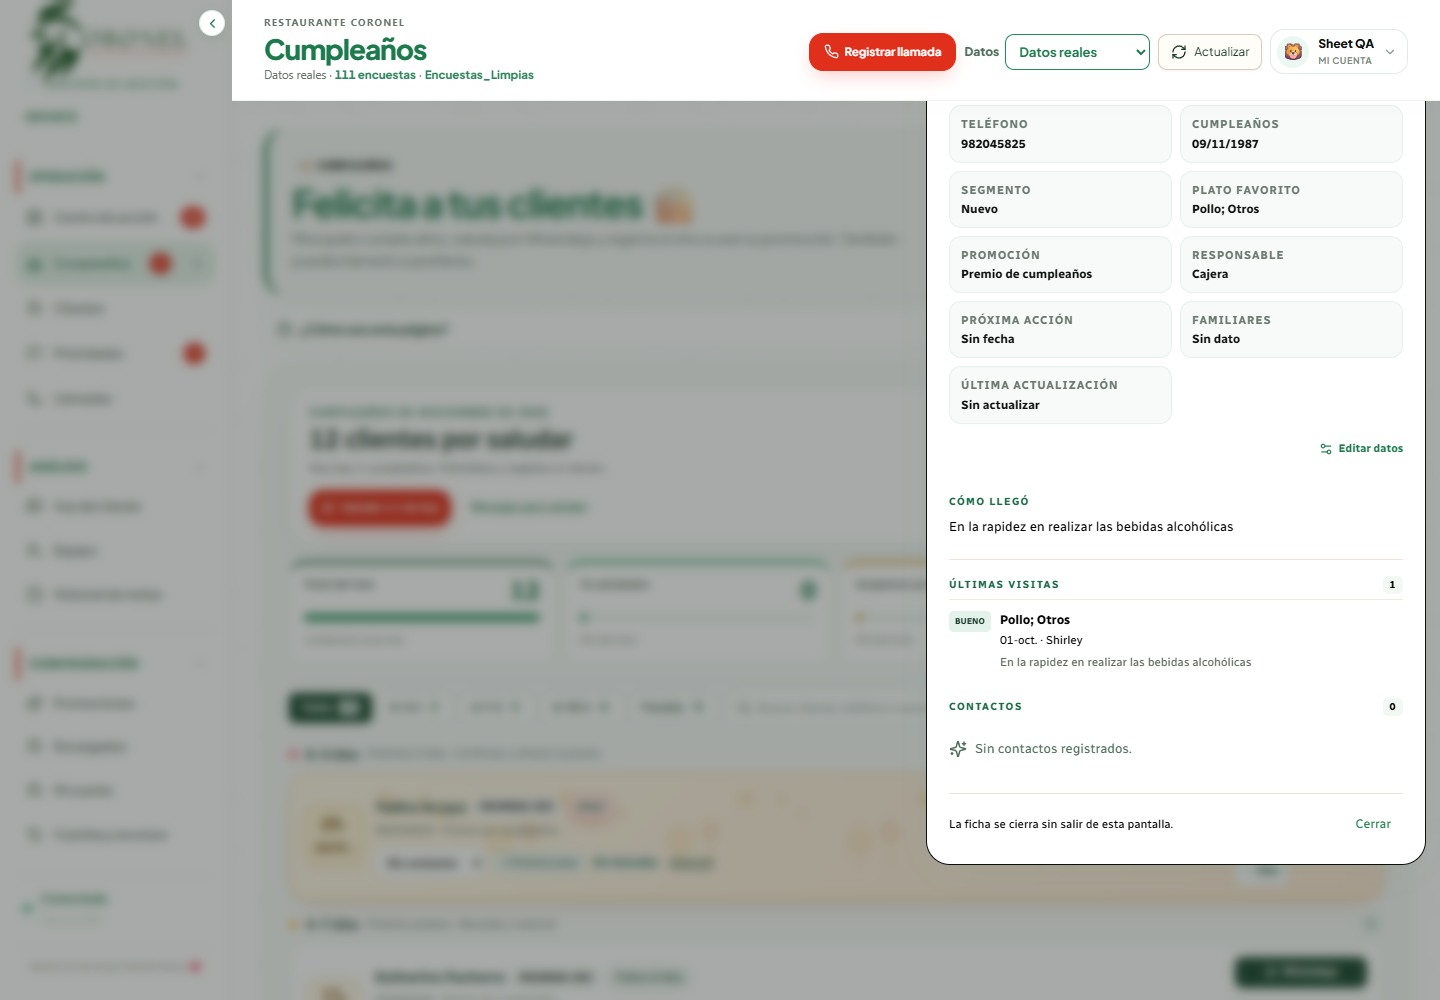
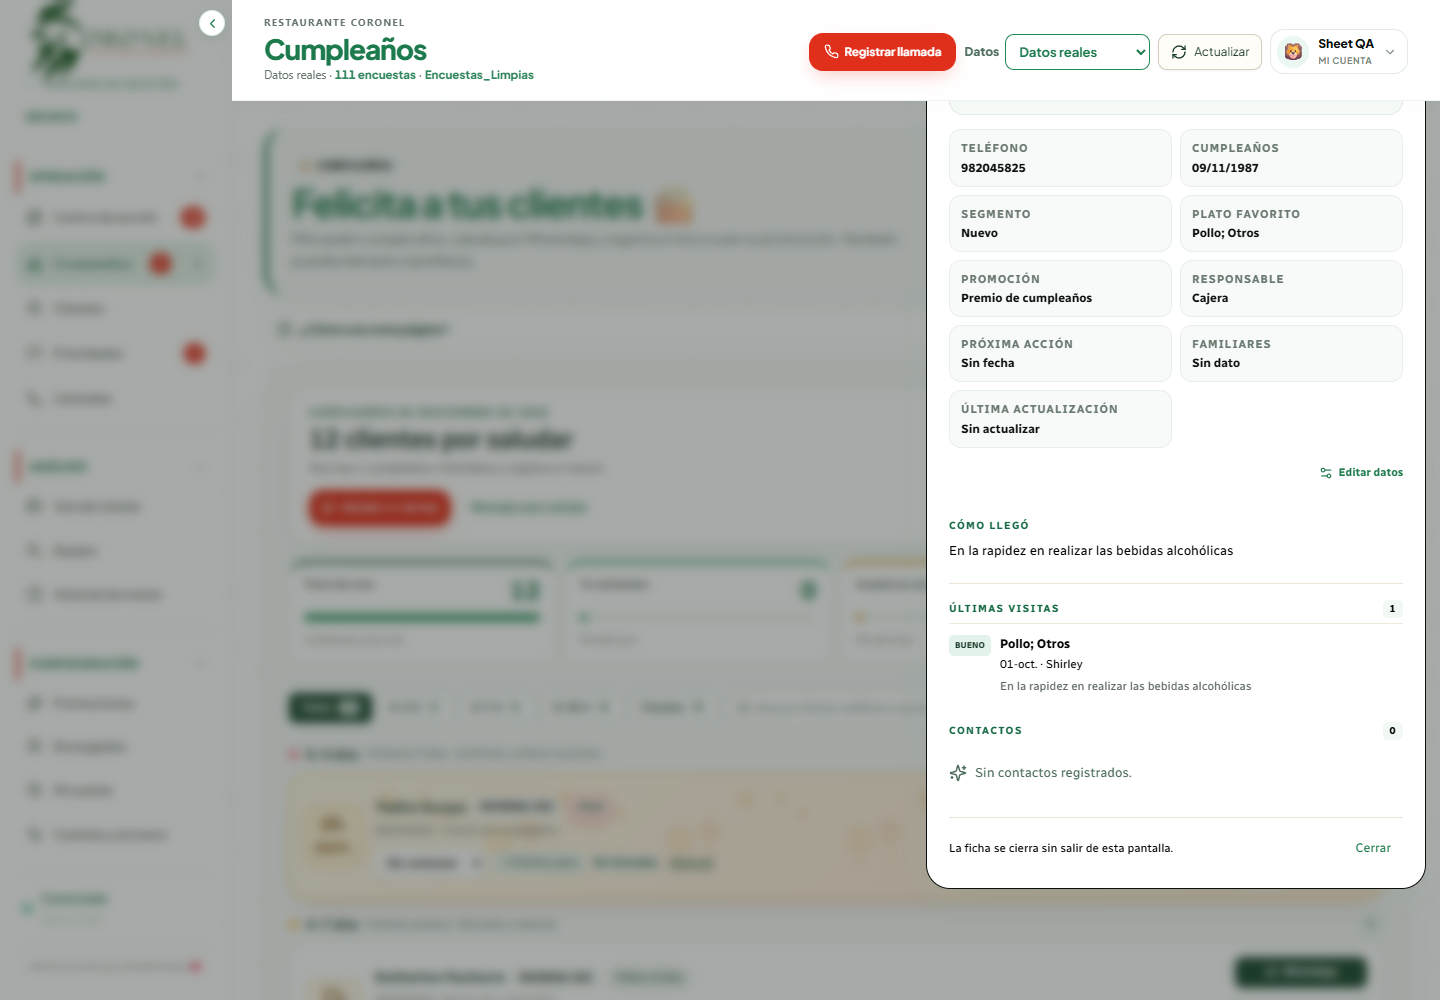
Montar ficha de cumpleanos fuera del contenedor de pagina

diff --git a/client/src/pages/Home.tsx b/client/src/pages/Home.tsx
@@ -11,6 +11,7 @@ import {
 import { trpc } from "@/lib/trpc";
 import { startLogin } from "@/const";
 import { useAuth } from "@/_core/hooks/useAuth";
+import { createPortal } from "react-dom";
 import { Button } from "@/components/ui/button";
 import { useDialogFocus } from "@/hooks/useDialogFocus";
 import {
@@ -4088,7 +4089,8 @@ function BirthdayWorkspace({
         </div>
       )}
 
-      {historyRow && (
+      {historyRow &&
+        createPortal(
         <div className="client-sheet-backdrop" onClick={() => setHistoryKey(null)}>
           <aside
             className="client-sheet birthday-sheet"
@@ -4278,7 +4280,8 @@ function BirthdayWorkspace({
               </button>
             </div>
           </aside>
-        </div>
+        </div>,
+        document.body
       )}
 
       {templatesOpen && (
